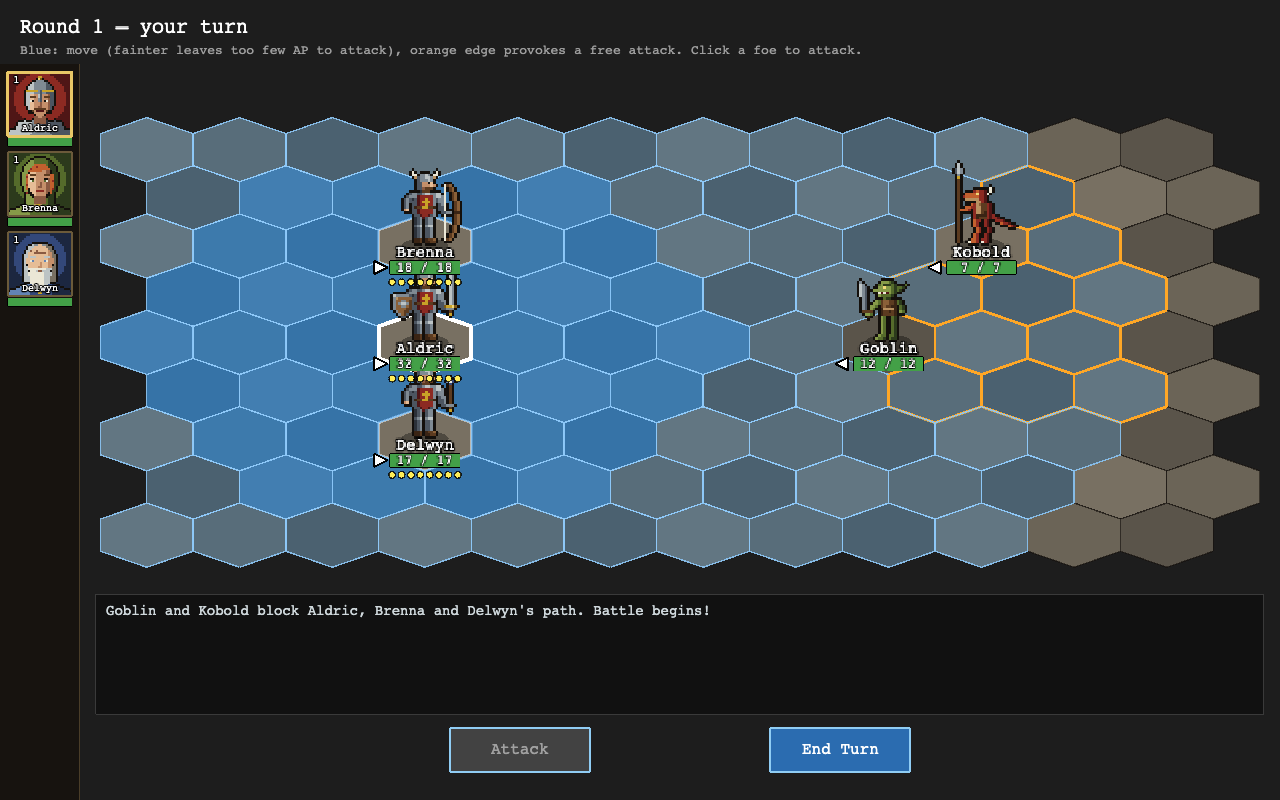
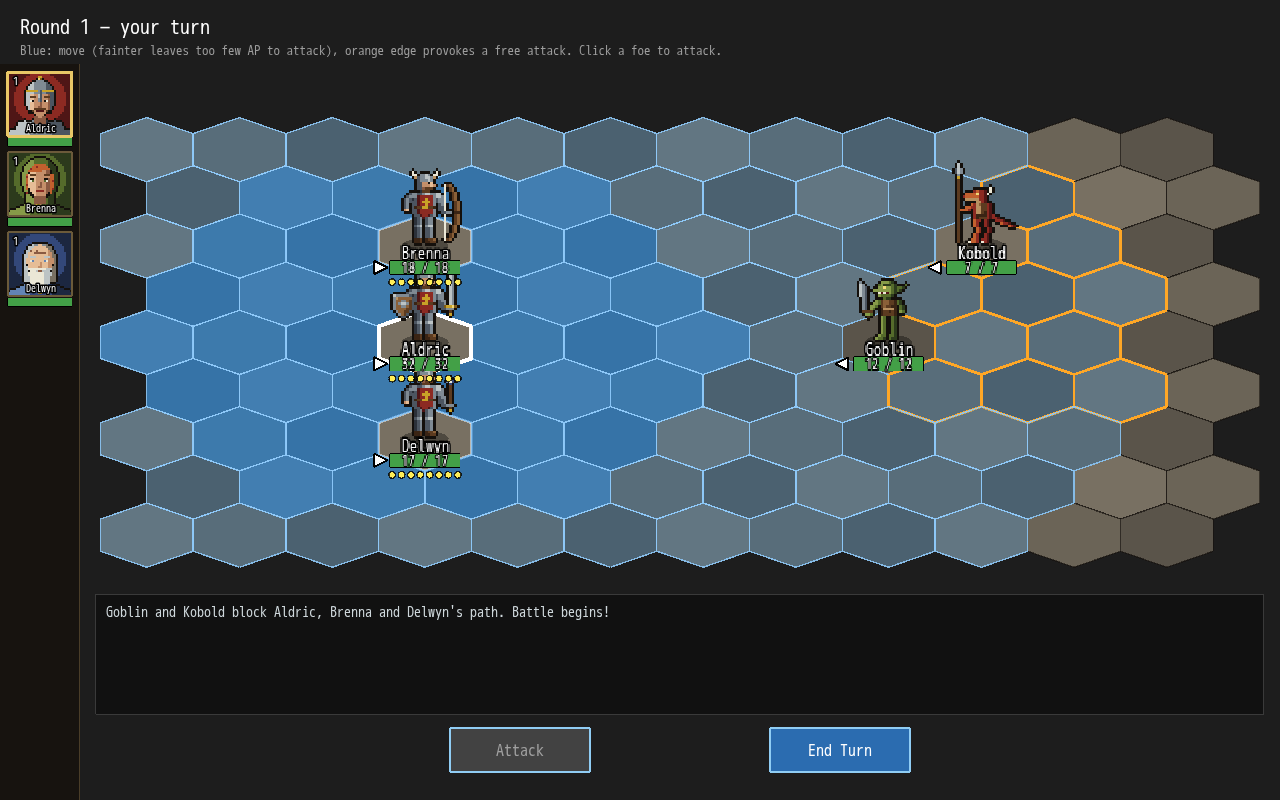
Manual: correct it against the code and retake its screenshots
Every screenshot retaken (they predated resistance on the character
panel and the bandits), and a new one of a bandit battle at threat 5,
started from the debug console's fight command. The text corrected
where it had drifted from the game: the roster's button names, the
skill-cost thresholds, the melee hero's starting shield, the blight's
growth cap, the nameplate's flanking bonus, the Attack and Cast
buttons, the reserves' cap, the encampment's own yield, perk attribute
minimums, the P and K keys and mana on the Character tab.

diff --git a/e2e/manual.shots.ts b/e2e/manual.shots.ts
@@ -140,6 +140,22 @@ describe('the manual’s screenshots', () => {
     await shot(game, 'panel-level-up')
   })
 
+  it('a battle with bandits', async () => {
+    // Started from the debug console, at threat 5, where the Captain and the Archer take the field.
+    const game = await games.open()
+    await game.newGame()
+    await game.press('Shift+Backquote')
+    for (const line of ['xp 2000 all', 'fight bandit_camp 5']) {
+      await game.page.locator('#yomi-debug input').fill(line)
+      await game.press('Enter')
+    }
+    await game.waitForScenes(['Battle'])
+    await game.press('Escape')
+    await game.waitFor('Battle', (b) => b.playerControl)
+    await game.hover({ x: 0, y: 0 })
+    await shot(game, 'battle-bandits')
+  })
+
   it('the trading post and the workshop', async () => {
     const game = await games.open()
     await game.newGame()

diff --git a/docs/manual/README.md b/docs/manual/README.md
@@ -31,7 +31,7 @@ A new game first asks how you want to start:
 
 ![The party roster](images/party-roster.png)
 
-Either choice takes you to the roster, which has one row for each place in the party. You start with three places. Members can be **edited** or **removed**. An empty place can be filled in two ways: **Create** opens character creation, and **Preroll** offers a ready-built hero.
+Either choice takes you to the roster, which has one row for each place in the party. You start with three places. Members can be **edited** or **removed**. An empty place can be filled in two ways: **Create character** opens character creation, and **Choose pre-rolled** offers a ready-built hero.
 
 ![Pre-rolled characters](images/party-prerolls.png)
 
@@ -72,7 +72,7 @@ There are three skills, each a percentage:
 - **Archery**: your chance to hit with a bow.
 - **Magic**: your chance of landing a spell or a wand shot. Spell perks also require a minimum Magic.
 
-Skills start low and are set by attributes alone. **Tag** one skill: tagging adds 20% to it and makes each skill point raise it by 2% instead of 1%. You then have **10 skill points** to place. Above 80% a raise costs 2 points, and above 90% it costs 3.
+Skills start low and are set by attributes alone. **Tag** one skill: tagging adds 20% to it and makes each skill point raise it by 2% instead of 1%. You then have **10 skill points** to place. From 80% a raise costs 2 points, and from 90% it costs 3.
 
 An untrained skill sits near 10%, and against an armoured foe that becomes the minimum 5% chance to hit. A hero who specialises (tags a skill, puts all 10 points into it and takes its skill perk) starts at around 60%.
 
@@ -92,7 +92,7 @@ If a change you make leaves a perk you already took without its requirements, th
 
 ![Name and portrait](images/creation-name.png)
 
-Pick a portrait and type a name of up to 12 letters. Gear is not chosen: every hero starts holding the weapon of their tagged skill, wears a steel breastplate, and carries the other plain weapons in their backpack.
+Pick a portrait and type a name of up to 12 letters. Gear is not chosen: every hero starts holding the weapon of their tagged skill (a melee hero also holds an oak shield), wears a steel breastplate, and carries the other plain weapons, and the shield if their hands are full, in their backpack.
 
 Any skill points or picks you leave unspent stay with the character, and you can spend them later on the world map.
 
@@ -102,7 +102,7 @@ Any skill points or picks you leave unspent stay with the character, and you can
 
 ![The world map at the start](images/world-start.png)
 
-The world map is a large board of hexes, many screens wide, and the view scrolls to follow your party. Your heroes' portraits run down the left side. The header shows the turn number, how much of the explored land is blighted, and the encampment's **stock** of materials.
+The world map is a large board of hexes, many screens wide, and the view scrolls to follow your party. Your heroes' portraits run down the left side. The header shows the turn number, how much of the explored land is blighted (and, once it has grown, how much stronger the blight has become), and the encampment's **stock** of materials.
 
 **Time passes only when you act.** Each hex you walk and each day you camp takes one turn, and each turn the blight takes another day to spread (see [The blight](#8-the-blight)).
 
@@ -133,6 +133,8 @@ You can also click a hex to walk away.
 
 **Bandits.** Not every lair holds monsters. Bandits hold the **Bandit Camp** (threat 3) and the **Bandit Hideout** (threat 4), and new **Bandit Gangs** appear where the blight breeds lairs of threat 3 or more. Bandits are people, built the way your heroes are, and always led by a Captain with sword, shield and breastplate. At threat 3 a Brute with a battle axe and breastplate fights beside him; at threat 4 a Hedge-Mage takes the Brute's place, casting Magic Arrow, Flame Arrow and Shield and healing; at threat 5 a Bandit Archer stands back with a bow and shoots. They have a hero's hit points, the Captain and the Brute a hero's armour, and at threat 5 they carry Fine gear, so expect a hard fight against a party of your level: bring a heavy weapon, or spells, for the armoured ones, and close in on the Archer and the Hedge-Mage, who wear none.
 
+![Bandits at threat 5: the Captain and the Archer](images/battle-bandits.png)
+
 ### Camping and other actions
 
 When there are no monsters on your hex, the footer offers:
@@ -155,8 +157,8 @@ Press **C**, or click the portrait of the hero marked in gold, to open the chara
 | S | Skills |
 | B | Spells |
 | I | Inventory |
-| P | Perk tree (from Skills) |
-| K | Spell tree (from Spells) |
+| P | Perk tree (press again to go back to Skills) |
+| K | Spell tree (press again to go back to Spells) |
 | Esc | Close, or step back from a tree |
 
 To switch the panel to another hero, click their portrait on the left.
@@ -165,7 +167,7 @@ To switch the panel to another hero, click their portrait on the left.
 
 ![The Character tab](images/panel-character.png)
 
-This tab shows the hero's attributes, their level and experience, and what they fight with: hit points, armour class, resistance, chance to hit, damage, attack cost, how much resistance their blows pierce, action points and critical chance.
+This tab shows the hero's attributes, their level and experience, and what they fight with: hit points, armour class, resistance, chance to hit, damage, attack cost, how much resistance their blows pierce (if any), action points, critical chance and, for a caster, mana.
 
 ### Skills and perks
 
@@ -175,7 +177,7 @@ When the hero has skill points to spend, a **+** appears beside each skill. The 
 
 ![The perk tree](images/panel-perk-tree.png)
 
-Perks you can take now are drawn brightly, and a taken perk shows its ranks (for example 1/2).
+Perks you can take now are drawn brightly, and a taken perk shows its ranks (for example 1/2). Most perks also ask a minimum in their attribute, so a dim perk may be waiting for a higher attribute rather than a higher level.
 
 ### Spells
 
@@ -220,7 +222,7 @@ Hover over a hex to see the path, then click to move there. Each hex costs **1 A
 
 ![Hovering a foe shows the attack](images/battle-attack.png)
 
-**Click a foe** to attack it. If it is out of reach, the hero first walks into range along the path shown, then strikes. The weapon decides both the cost and the reach:
+**Click a foe** to attack it. If it is out of reach, the hero first walks into range along the path shown, then strikes. The **Attack** button strikes the only foe in reach, or, with several in reach, asks you to click one (it reads **Cancel** while it waits). The weapon decides both the cost and the reach:
 
 | Weapon | Damage | AP | Reach | Pierces resistance |
 | --- | --- | --- | --- | --- |
@@ -254,7 +256,7 @@ Because resistance comes off every hit, it hurts weapons that hit often for a li
 
 **Armour piercing**: melee blows ignore some points of the foe's resistance (see the table above, and the Bearded modifier and the Armour Breaker and Sunder perks). Bow and wand shots pierce nothing. Spells ignore resistance altogether, which makes a mage the other answer to armour.
 
-When you hover a foe you can attack, its nameplate shows your chance to hit and, after piercing, how much damage its armour will stop (for example "60% −3 dmg").
+When you hover a foe you can attack from where the hero stands, its nameplate shows your chance to hit, any bonus from flanking and the arc, and, after piercing, how much damage its armour will stop: "60% −3 dmg", or "70% +10 −3 dmg" from its flank.
 
 **Regeneration**: trolls heal some hit points at the start of each of their turns. Acid (Acid Arrow, which also eats 2 points of resistance while it lasts) and fire (Fireball and Flame Arrow, for the turn after) stop it.
 
@@ -294,7 +296,7 @@ A hero who knows a spell has **mana**: twice their Intelligence, plus half their
 
 ![The spell list](images/battle-spell-menu.png)
 
-To cast, select the hero and press **Cast** (or M). Pick a spell by clicking it or pressing its number. A spell you cannot cast right now is greyed out, for example because no target is in range or the hero lacks the AP or mana.
+To cast, select the hero and press **Cast** (or M); the button shows the mana the hero has left, and reads **Cancel** while you aim. Pick a spell by clicking it or pressing its number. A spell you cannot cast right now is greyed out, for example because no target is in range or the hero lacks the AP or mana.
 
 ![Choosing a spell's target](images/battle-targeting.png)
 
@@ -363,7 +365,7 @@ A hero born with an attribute of 7 can reach that attribute's masteries by takin
 
 Every hex of land has a blight level from 0 (clean) to 3 (corrupted), shown as a tint over the grass. Corrupted land also shows dark growths. Every day, sources of influence push on the hexes around them, and their strength fades by a point for each hex of distance:
 
-- **Pushing the blight forward**: monster lairs (more strongly the higher their threat), the Source itself, and corrupted land spreading to its neighbours. The blight grows stronger over time, by a tenth every 30 days.
+- **Pushing the blight forward**: monster lairs (more strongly the higher their threat), the Source itself, and corrupted land spreading to its neighbours. The blight grows stronger over time, by a tenth every 30 days, up to half again as strong.
 - **Pushing it back**: the encampment (stronger with its shrine), every resource you hold (stronger with an outpost), every watchtower, and the party itself, which grows stronger as the heroes level up.
 
 Consequences:
@@ -371,7 +373,7 @@ Consequences:
 - **Corrupted land breeds new monster lairs.** A new lair's threat depends on how far from the encampment it appears: goblins and kobolds at any threat, and bandits from threat 3.
 - **Winning a battle cleanses the land** around the lair, lowering every hex within 1 + its threat by two levels.
 - **Resources** are captured when their land is clean (level 0) and lost when it reaches level 2. While the blight gains on a site, the map shows it in orange with the number of days left until it falls. A watchtower can be lost the same way.
-- **Stock**: every 5 days, each site you hold adds its yield to the encampment's stock (gold, iron, timber, silver and so on). A site whose land is tainted yields half.
+- **Stock**: every 5 days, each site you hold adds its yield to the encampment's stock (gold, iron, timber, silver and so on), and the encampment itself adds 2 gold. A site whose land is tainted yields half.
 
 The header's percentage counts only the land you have explored.
 
@@ -408,7 +410,7 @@ When the party stands on the encampment, **Enter** (the button carries the encam
 In the encampment, click the guild hall and then **Enter the Guild Hall**. It shows your party and the reserves waiting at the hall. **Close** goes back to the encampment.
 
 - **Click a hero** to select them. Then click a hero in the other row to swap the two, or use **To reserves** / **To party**.
-- **Recruit** hires a new hero for **10 gold**, who joins the reserves.
+- **Recruit** hires a new hero for **10 gold**, who joins the reserves. The reserves hold at most 4.
 
 ![Recruiting](images/guild-hall-recruit.png)
 

diff --git a/docs/implementation-plans/long-campaign-stage-01/index.md b/docs/implementation-plans/long-campaign-stage-01/index.md
@@ -295,7 +295,7 @@ fight?: (encounter: EncounterId, threat: number) => void
 - **Follow-ups after the stage (2026-10-30, the user's decisions):**
   - **The guard is accepted** at its level, 237 of 500 (238 after the next item), against 320 before the stage. The user's reason: "a real player can just choose to grind more." Recorded in CLAUDE.md's rules of scaling, the stage design's status line and notes, and the stages index.
   - **The Archer at threat 5.** The slot order became Captain, Archer (`fromThreat: 5`), Hedge-Mage (`fromThreat: 4`), Brute, Cutthroat, counts unchanged (C6 amended). Tests first: `encounters.test.ts` pins the field at threats 3 to 7, the Archer's stats at 5 and the XP at threats 3 to 6 (the field test failed on threat 5 before the change). Measured from seed 1 in podman: the threat-5 cell `--encounter bandit_camp --threat 5 --party-level 5 --battles 500` 470 of 500 (94%, 8.4 rounds; was 434), most but not all, so not retuned; the guard `--campaign --ready-level 7 --battles 500` 238 of 500 (was 237), the fixed camp 446 of 500, the Hideout 260 of 261, Bandit Gangs 377 of 377, 817 of 819 and 346 of 346 at threats 3, 4 and 5. Threats 3 and 4 field what they did. CLAUDE.md, the stage notes (cells, follow-up, play-script step 2) and the manual's bandit paragraph were updated.
-  - **The manual** was brought up to date and its screenshots retaken, in a commit of its own.
+  - **The manual** was checked against the code and corrected (roster button names, skill-cost thresholds, the melee hero's starting shield, the blight's growth and its cap, the nameplate's flanking bonus, the Attack and Cast buttons, the reserves' cap, the encampment's own yield, perk attribute minimums, the P and K keys, mana on the Character tab), and all 30 screenshots retaken with `npm run manual:screenshots` in the podman image, plus a new one, `battle-bandits.png` (`fight bandit_camp 5` from the debug console: the Captain and the Archer). Each image was looked at against its caption. In a commit of its own.
 
 ## Open questions
 
